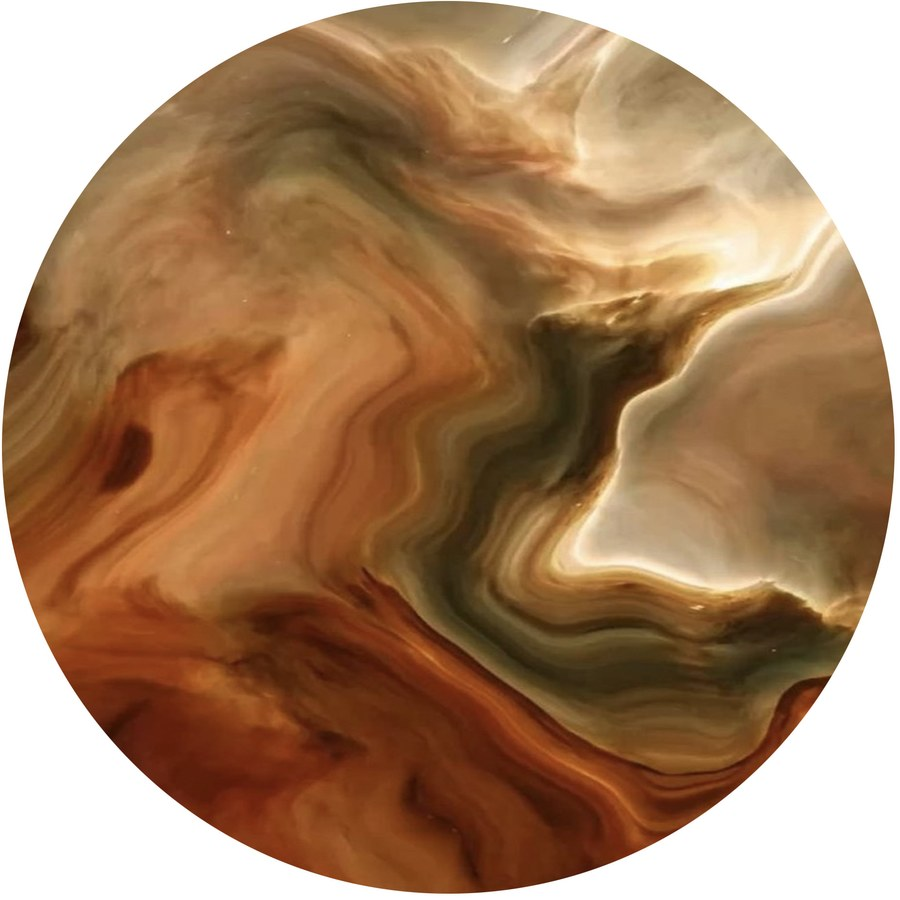
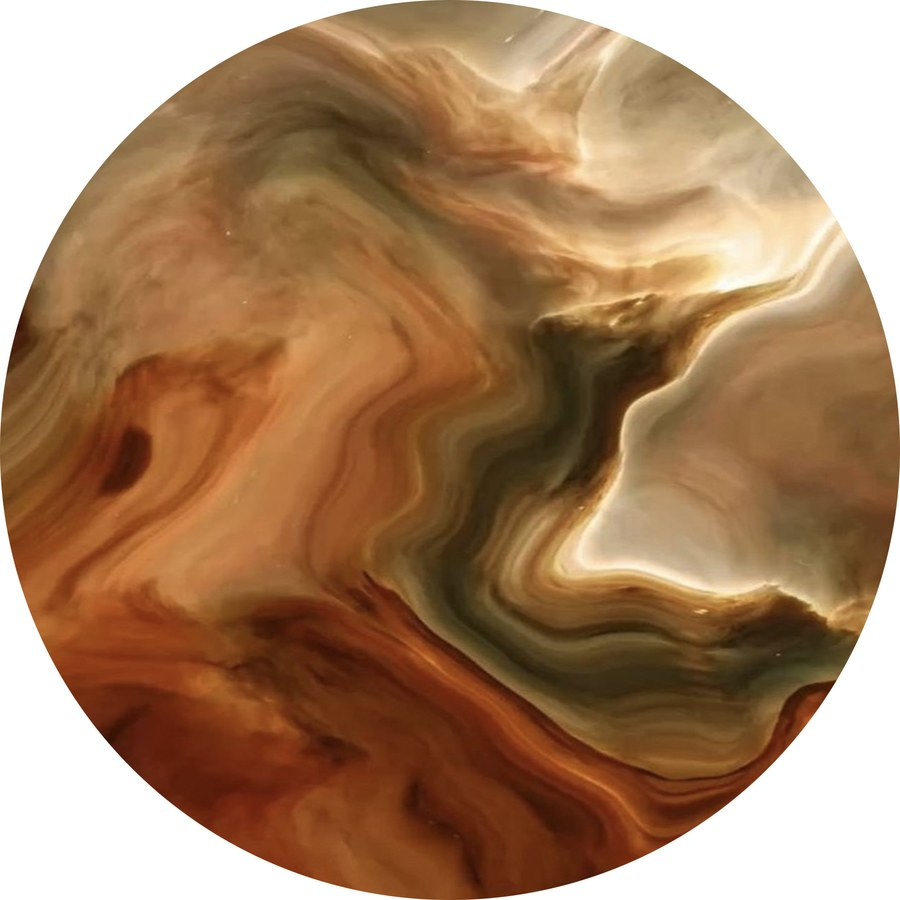
DARK joins the mark portal, and all three are cropped to their circle
Three pictures now dissolve behind the mark rather than two.

DARK needed handling the others did not: its circle is 91.5% of its frame
against their 99.2%, so the 6% overfill that hid their edge would have left
a white rim on it. Each picture is now cropped to its own circle before it
ships — all three measure 1.000 of frame — and the overfill is only there
to swallow the antialiased edge. Whatever a future picture's margin, the
crop makes it behave.

DARK is also the only dark one, so the pale mark reads across it far more
easily than across the two ochres.

diff --git a/src/components/ArtMarkPortal.jsx b/src/components/ArtMarkPortal.jsx
@@ -15,6 +15,7 @@ import {
 const BACKDROPS = [
   "/images/portals/art-mark-trip.jpg",
   "/images/portals/art-mark-ochre-light-shadow.jpg",
+  "/images/portals/art-mark-dark.jpg",
 ];
 const BACKDROP_FADE = 5;      // seconds of crossfade
 const BACKDROP_HOLD = 6000;   // ms each picture is held before the next fade
@@ -61,10 +62,9 @@ export default function ArtMarkPortal({ size = 288, onOpen = null, label = "Scul
                 alt=""
                 role="presentation"
                 className="absolute inset-0 w-full h-full object-cover"
-                // The pictures are circles drawn just inside their frame, which
-                // left a hairline of their own background showing at the portal's
-                // rim. Pushed out past the rim — a little is cropped, nothing of
-                // the picture that matters.
+                // Each picture is cropped to its own circle before it gets here,
+                // then pushed a little past the portal's rim so no edge of it can
+                // show. A sliver is cropped; nothing that matters.
                 style={{ opacity: i === backdrop ? 1 : 0, transition: `opacity ${BACKDROP_FADE}s ease-in-out`, transform: "scale(1.06)" }}
               />
             ))}
